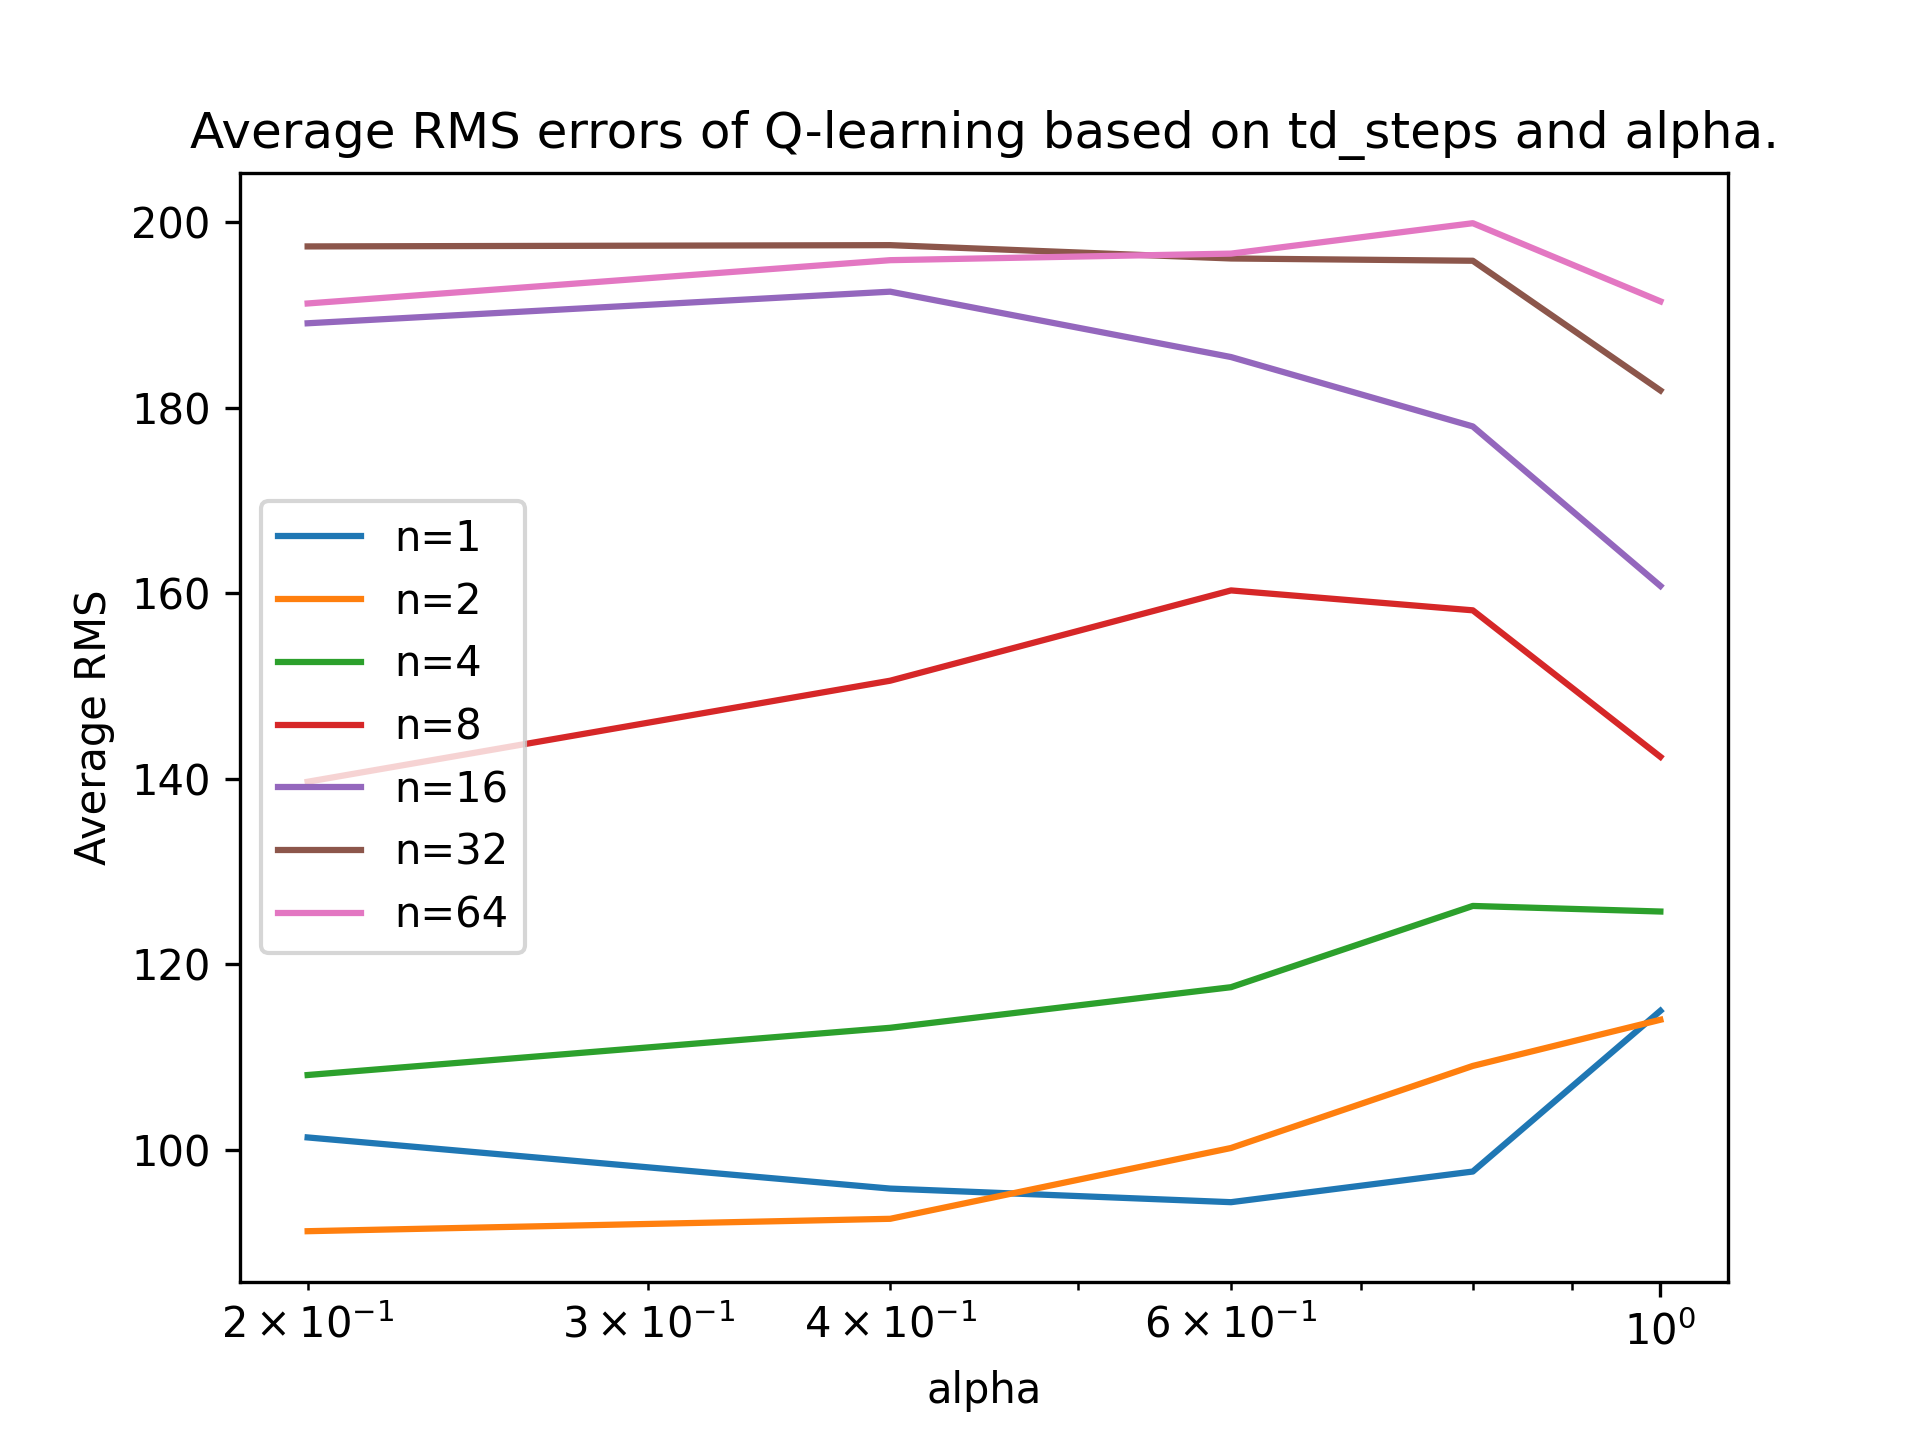
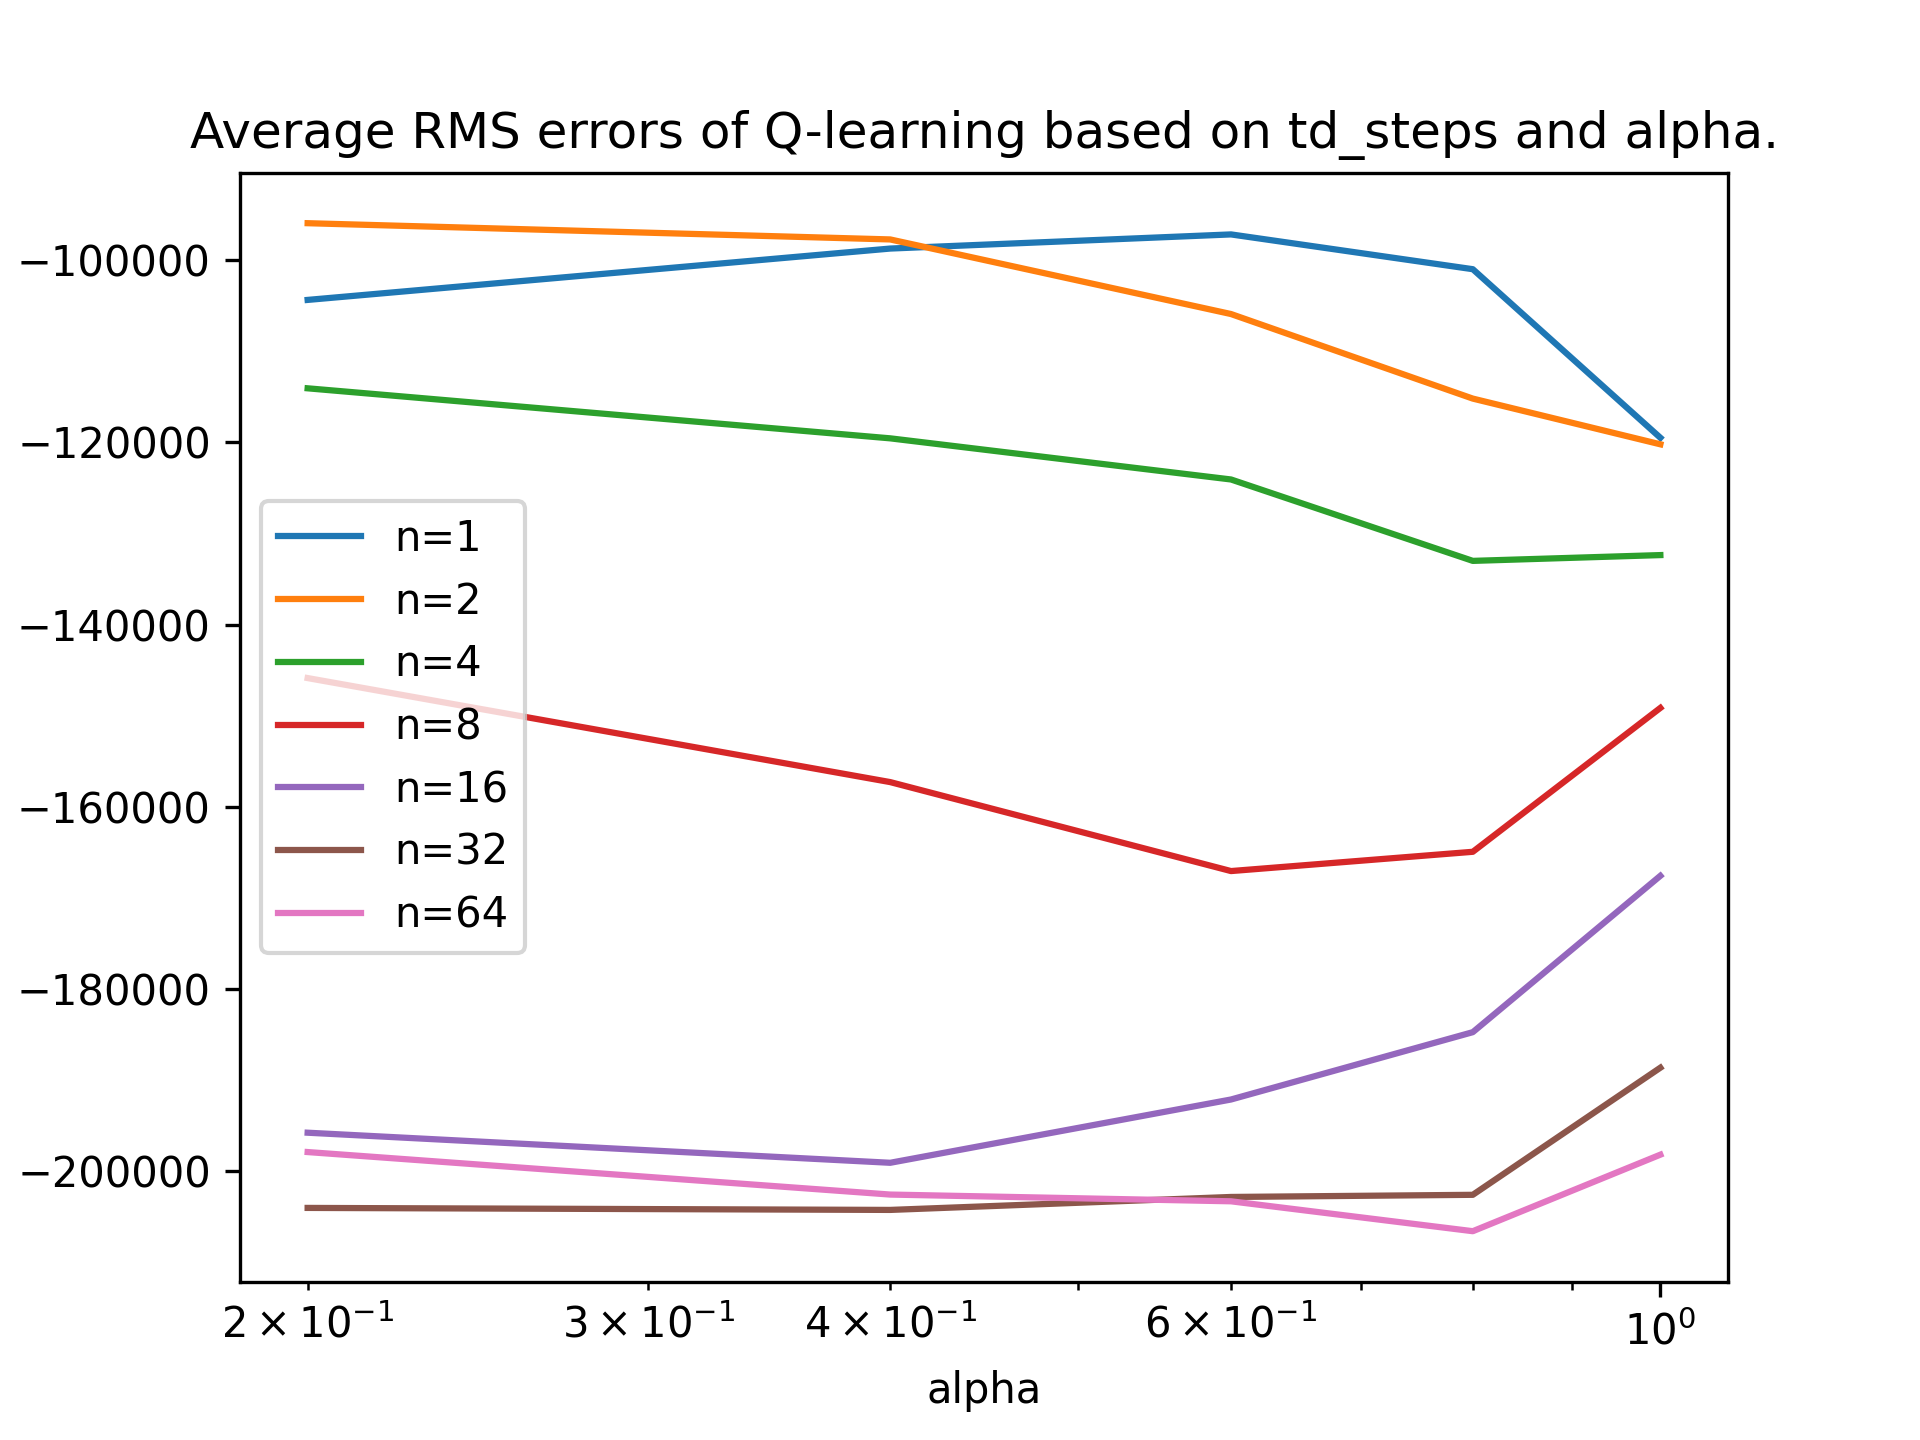
AUC Plots

diff --git a/ShortCutPlots.py b/ShortCutPlots.py
@@ -12,9 +12,9 @@ def plot(
     Plots results, achieved from conducted experiment using results.npy file.
 
     This function creates plots of 3 experiments both for deterministic and windy environments. The first experiment shows
-    RMS error for each considered td_steps value and alpha value. It is done for each of the 3 agents: Q-Learning, SARSA and
+    AUC for each considered td_steps value and alpha value. It is done for each of the 3 agents: Q-Learning, SARSA and
     Expected SARSA; and for each of the 2 environments. The second experiment plots learning curves of the 3 agents for considered
-    td_steps values and best alpha for each of them (based on RMS error). The last experiment takes best values of td_steps and
+    td_steps values and best alpha for each of them (based on AUC). The last experiment takes best values of td_steps and
     alpha for each agent and plots learning curves for them.
 
     :param smoothing_window: size of the smoothing window
@@ -37,28 +37,28 @@ def plot(
         best_alphas_SARSA_dict = {}
         best_alphas_ExpSARSA_dict = {}
 
-        ### EXPERIMENT 1###
+        ### EXPERIMENT 1 ###
         # Plots comparing average RMS errors based on td_steps(i) and alpha(j) for each agent
         QLearn_plot = ComparisonPlot(title="Average RMS errors of Q-learning based on td_steps and alpha.")
         SARSA_plot = ComparisonPlot(title="Average RMS errors of SARSA based on td_steps and alpha.")
         ExpSARSA_plot = ComparisonPlot(title="Average RMS errors of Expected SARSA based on td_steps and alpha.")
         for i in range(len(td_steps)):
-            QLearn_rms = np.zeros(len(alphas))
-            SARSA_rms = np.zeros(len(alphas))
-            ExpSARSA_rms = np.zeros(len(alphas))
+            QLearn_auc = np.zeros(len(alphas))
+            SARSA_auc = np.zeros(len(alphas))
+            ExpSARSA_auc = np.zeros(len(alphas))
             for j in range(len(alphas)):
-                # Average RMS error of a run of each agent, based on td_steps and alpha
-                QLearn_rms[j] = np.sqrt(np.mean((results[0, i, j, env] - optimal_val) ** 2))
-                SARSA_rms[j] = np.sqrt(np.mean((results[1, i, j, env] - optimal_val) ** 2))
-                ExpSARSA_rms[j] = np.sqrt(np.mean((results[2, i, j, env] - optimal_val) ** 2))
+                # AUC of a curve of each agent, based on td_steps and alpha
+                QLearn_auc[j] = np.trapz(results[0, i, j, env])
+                SARSA_auc[j] = np.trapz(results[1, i, j, env])
+                ExpSARSA_auc[j] = np.trapz(results[2, i, j, env])
             # Saving indexes of best alphas for each td_steps based on the environment for later learning curves
-            best_alphas_QLearn_dict[td_steps[i]] = np.argmin(QLearn_rms)
-            best_alphas_SARSA_dict[td_steps[i]] = np.argmin(SARSA_rms)
-            best_alphas_ExpSARSA_dict[td_steps[i]] = np.argmin(ExpSARSA_rms)
+            best_alphas_QLearn_dict[td_steps[i]] = np.argmax(QLearn_auc)
+            best_alphas_SARSA_dict[td_steps[i]] = np.argmax(SARSA_auc)
+            best_alphas_ExpSARSA_dict[td_steps[i]] = np.argmax(ExpSARSA_auc)
             # Adding comparison curves
-            QLearn_plot.add_curve(alphas, QLearn_rms, f"n={td_steps[i]}")
-            SARSA_plot.add_curve(alphas, SARSA_rms, f"n={td_steps[i]}")
-            ExpSARSA_plot.add_curve(alphas, ExpSARSA_rms, f"n={td_steps[i]}")
+            QLearn_plot.add_curve(alphas, QLearn_auc, f"n={td_steps[i]}")
+            SARSA_plot.add_curve(alphas, SARSA_auc, f"n={td_steps[i]}")
+            ExpSARSA_plot.add_curve(alphas, ExpSARSA_auc, f"n={td_steps[i]}")
         if env == 0:
             QLearn_plot.save("Q-Learning_comparison.png")
             SARSA_plot.save("SARSA_comparison.png")
@@ -74,15 +74,15 @@ def plot(
         SARSA_plot = LearningCurvePlot(title="SARSA learning curves based on td_steps hyperparam.")
         ExpSARSA_plot = LearningCurvePlot(title="Expected SARSA learning curves based on td_steps hyperparam.")
         for i in range(len(td_steps)):
-            # Experiment 1 - Q-learning agent
+            # Q-learning agent
             curve = results[0, i, best_alphas_QLearn_dict[td_steps[i]], env]
             QLearn_plot.add_curve(smooth(curve, smoothing_window), f"n={td_steps[i]} (alpha = {alphas[best_alphas_QLearn_dict[td_steps[i]]]})")
 
-            # Experiment 2 - SARSA agent
+            # SARSA agent
             curve = results[1, i, best_alphas_SARSA_dict[td_steps[i]], env]
             SARSA_plot.add_curve(smooth(curve, smoothing_window), f"n={td_steps[i]} (alpha = {alphas[best_alphas_SARSA_dict[td_steps[i]]]})")
 
-            # Experiment 3 - Expected SARSA agent
+            # Expected SARSA agent
             curve = results[2, i, best_alphas_ExpSARSA_dict[td_steps[i]], env]
             ExpSARSA_plot.add_curve(smooth(curve, smoothing_window), f"n={td_steps[i]} (alpha = {alphas[best_alphas_ExpSARSA_dict[td_steps[i]]]})")
         if env == 0:
@@ -106,7 +106,7 @@ def plot(
         curve = results[1, n, best_alphas_SARSA_dict[td_steps[n]], env]
         comparison_plot.add_curve(smooth(curve, smoothing_window), f"{algs[1]} (n={td_steps[n]}, alpha={alphas[best_alphas_SARSA_dict[td_steps[n]]]})")
         # Expected SARSA agent
-        n = 1 if env==0 else 0
+        n = 0
         curve = results[2, n, best_alphas_ExpSARSA_dict[td_steps[n]], env]
         comparison_plot.add_curve(smooth(curve, smoothing_window), f"{algs[2]} (n={td_steps[n]}, alpha={alphas[best_alphas_ExpSARSA_dict[td_steps[n]]]})")
         if env==0:
